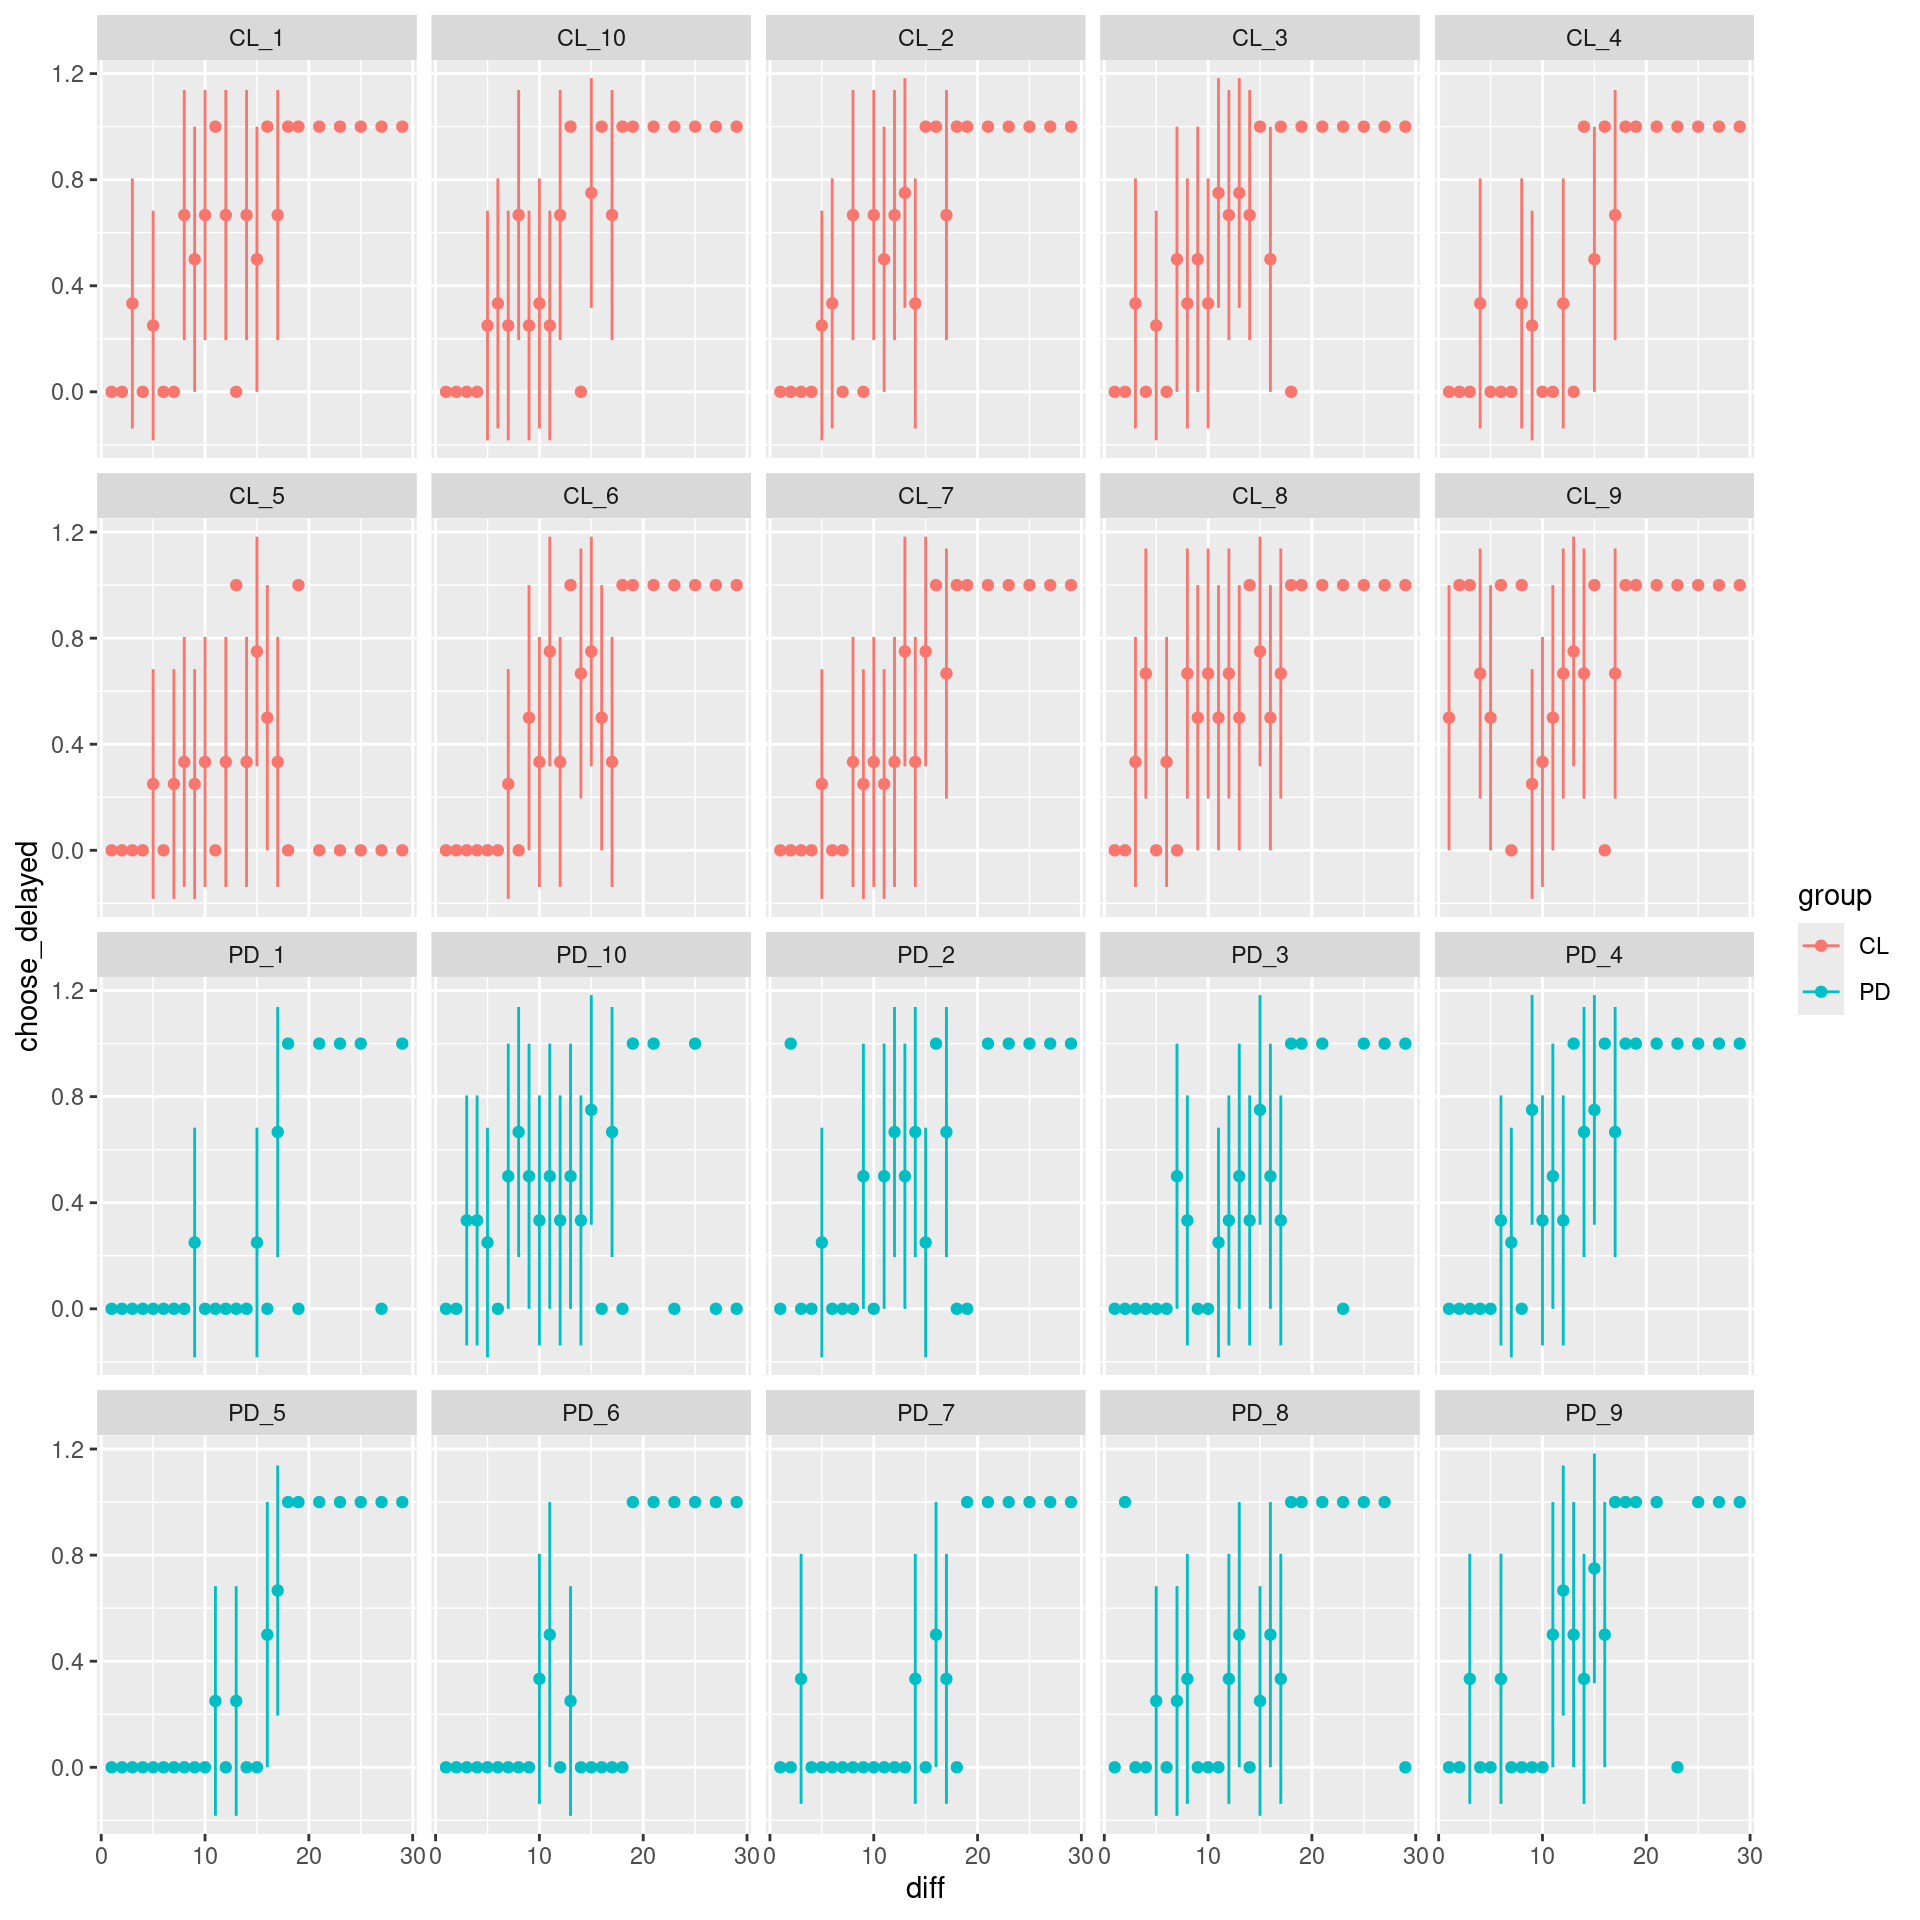
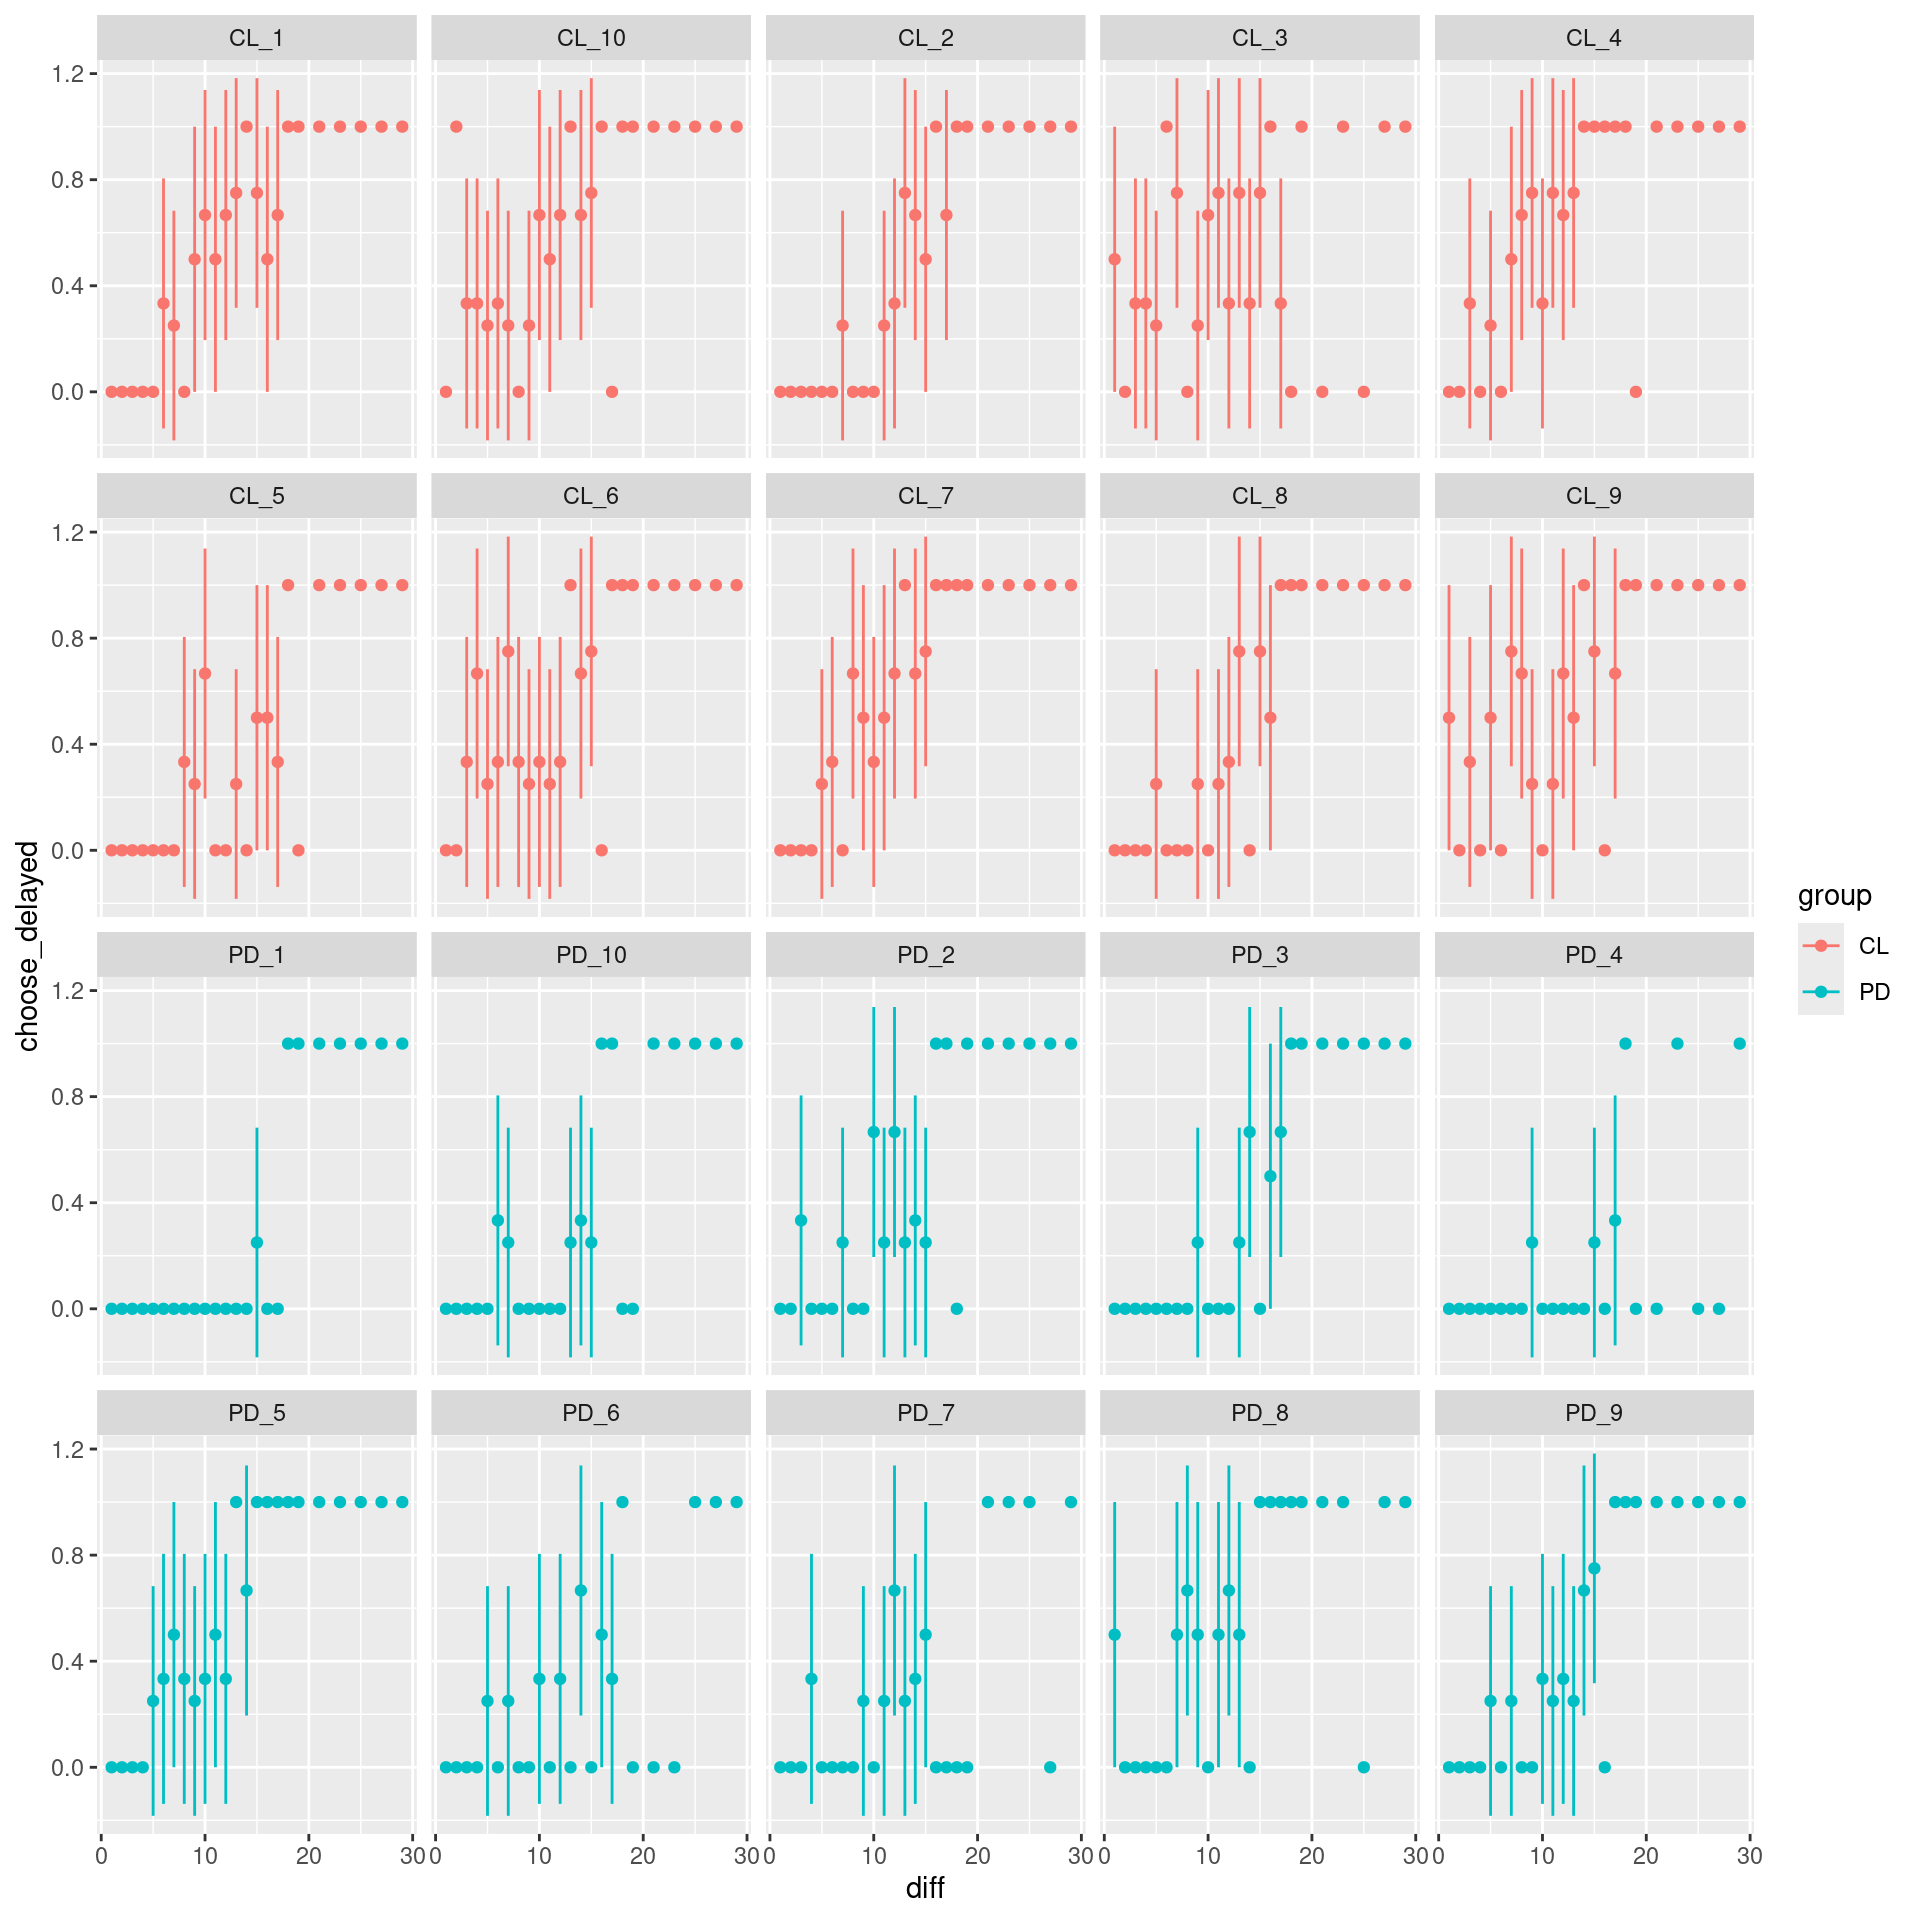
minor edits worksheet

diff --git a/worksheet.html b/worksheet.html
@@ -171,8 +171,8 @@ the reward difference at which a participant is equally likely to choose the imm
 <li><strong>Slope:</strong><br>
 how sharply choices switch from preferring the immediate to the delayed option as the reward difference increases. Shallower slopes indicate noisier or less consistent preferences.</li>
 </ul>
-<p><strong>Why might we want to simulate this task?</strong> Delayed discounting tasks are widely used in clinical and cognitive neuroscience to study impulsivity and reward processing. For example, one possible application is in Parkinson’s disease, where dopaminergic medication (such as L-DOPA or dopamine agonists) has been linked to changes in impulsivity and reward sensitivity. Some studies suggest that dopaminergic treatment can increase impulsive choice in certain patients, although effects can vary across individuals.</p>
-<p>In this example, we simulate two groups (e.g.&nbsp;patients <em>on</em> vs <em>off</em> medication, or patients vs controls), assuming a small group difference in the underlying decision parameters. Rather than analysing raw choice proportions, we model behaviour at the level of latent psychometric parameters and use simulation to explore how sample size, effect size, and individual variability affect statistical power.</p>
+<p>Delayed discounting tasks are used to study impulsivity and reward processing. Dopaminergic medication (such as L-DOPA or dopamine agonists) has been linked to changes in impulsivity and reward sensitivity and some studies suggest that dopaminergic treatment can increase impulsive choice in certain patients.</p>
+<p>In this example, we simulate two groups (e.g.&nbsp;patients <em>on</em> vs <em>off</em> medication, or patients vs controls), assuming a small group difference in the underlying decision parameters. We model behaviour at the level of latent psychometric parameters and use simulation to explore how sample size and other parameters affect statistical power.</p>
 <section id="task-design" class="level3">
 <h3 class="anchored" data-anchor-id="task-design">Task design</h3>
 <p>We can fix the set of choices offered in the task; I am using in particular a design that has been used in prior studies, which aims to provide a targeted sampling of possible choice pairs (combinations of immediate and delayed rewards) in a way that should encompass a broad range of individual differences in discounting.</p>
@@ -335,13 +335,13 @@ In this example, we define the effect size in terms of variability on the <em>la
  $ trial         : int  1 2 3 4 5 6 7 8 9 10 ...
  $ immediate     : num  10 10 10 10 10 10 10 10 10 10 ...
  $ delayed       : num  11 12 13 14 15 16 17 18 19 20 ...
- $ choose_delayed: int  0 0 0 0 0 0 0 1 1 1 ...
- $ p_delayed     : num  0.108 0.127 0.149 0.174 0.202 ...
+ $ choose_delayed: int  0 0 0 0 0 1 0 0 1 1 ...
+ $ p_delayed     : num  0.0185 0.0262 0.0371 0.0522 0.0731 ...
  $ subjectID     : chr  "CL_1" "CL_1" "CL_1" "CL_1" ...
  $ group         : chr  "CL" "CL" "CL" "CL" ...
- $ pse           : Named num  12.4 12.4 12.4 12.4 12.4 ...
+ $ pse           : Named num  12.1 12.1 12.1 12.1 12.1 ...
   ..- attr(*, "names")= chr [1:1200] "pse" "pse" "pse" "pse" ...
- $ slope         : Named num  0.185 0.185 0.185 0.185 0.185 ...
+ $ slope         : Named num  0.358 0.358 0.358 0.358 0.358 ...
   ..- attr(*, "names")= chr [1:1200] "slope" "slope" "slope" "slope" ...</code></pre>
 </div>
 </div>
@@ -418,8 +418,8 @@ In this example, we define the effect size in terms of variability on the <em>la
 <div class="sourceCode cell-code" id="cb8"><pre class="sourceCode r code-with-copy"><code class="sourceCode r"><span id="cb8-1"><a href="#cb8-1" aria-hidden="true" tabindex="-1"></a><span class="fu">fit_dd_glmer</span>(<span class="fu">simulate_dd</span>(<span class="at">n_per_group =</span> <span class="dv">20</span>))</span></code><button title="Copy to Clipboard" class="code-copy-button"><i class="bi"></i></button></pre></div>
 </details>
 <div class="cell-output cell-output-stdout">
-<pre><code>    estimate        se         z         p  N delta_PSE
-1 -0.6336481 0.5755112 -1.101018 0.2708889 40   1.51539</code></pre>
+<pre><code>    estimate        se         z          p  N delta_PSE
+1 -0.9409973 0.4962584 -1.896184 0.05793571 40  3.718074</code></pre>
 </div>
 </div>
 </section>
@@ -1423,9 +1423,9 @@ window.document.addEventListener("DOMContentLoaded", function (event) {
 <span id="cb23-34"><a href="#cb23-34" aria-hidden="true" tabindex="-1"></a><span class="ss">- </span>**Slope:**  </span>
 <span id="cb23-35"><a href="#cb23-35" aria-hidden="true" tabindex="-1"></a>  how sharply choices switch from preferring the immediate to the delayed option as the reward difference increases. Shallower slopes indicate noisier or less consistent preferences.</span>
 <span id="cb23-36"><a href="#cb23-36" aria-hidden="true" tabindex="-1"></a></span>
-<span id="cb23-37"><a href="#cb23-37" aria-hidden="true" tabindex="-1"></a>**Why might we want to simulate this task?** Delayed discounting tasks are widely used in clinical and cognitive neuroscience to study impulsivity and reward processing. For example, one possible application is in Parkinson’s disease, where dopaminergic medication (such as L-DOPA or dopamine agonists) has been linked to changes in impulsivity and reward sensitivity. Some studies suggest that dopaminergic treatment can increase impulsive choice in certain patients, although effects can vary across individuals.</span>
+<span id="cb23-37"><a href="#cb23-37" aria-hidden="true" tabindex="-1"></a>Delayed discounting tasks are used to study impulsivity and reward processing. Dopaminergic medication (such as L-DOPA or dopamine agonists) has been linked to changes in impulsivity and reward sensitivity and some studies suggest that dopaminergic treatment can increase impulsive choice in certain patients.</span>
 <span id="cb23-38"><a href="#cb23-38" aria-hidden="true" tabindex="-1"></a></span>
-<span id="cb23-39"><a href="#cb23-39" aria-hidden="true" tabindex="-1"></a>In this example, we simulate two groups (e.g. patients *on* vs *off* medication, or patients vs controls), assuming a small group difference in the underlying decision parameters. Rather than analysing raw choice proportions, we model behaviour at the level of latent psychometric parameters and use simulation to explore how sample size, effect size, and individual variability affect statistical power.</span>
+<span id="cb23-39"><a href="#cb23-39" aria-hidden="true" tabindex="-1"></a>In this example, we simulate two groups (e.g. patients *on* vs *off* medication, or patients vs controls), assuming a small group difference in the underlying decision parameters. We model behaviour at the level of latent psychometric parameters and use simulation to explore how sample size and other parameters affect statistical power.</span>
 <span id="cb23-40"><a href="#cb23-40" aria-hidden="true" tabindex="-1"></a></span>
 <span id="cb23-41"><a href="#cb23-41" aria-hidden="true" tabindex="-1"></a><span class="fu">### Task design</span></span>
 <span id="cb23-42"><a href="#cb23-42" aria-hidden="true" tabindex="-1"></a></span>
